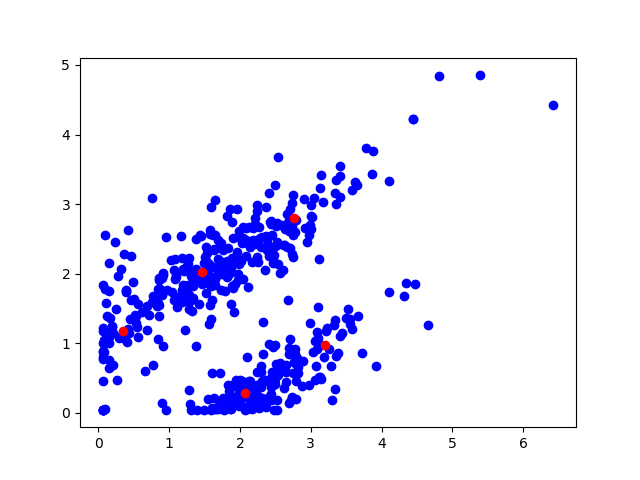
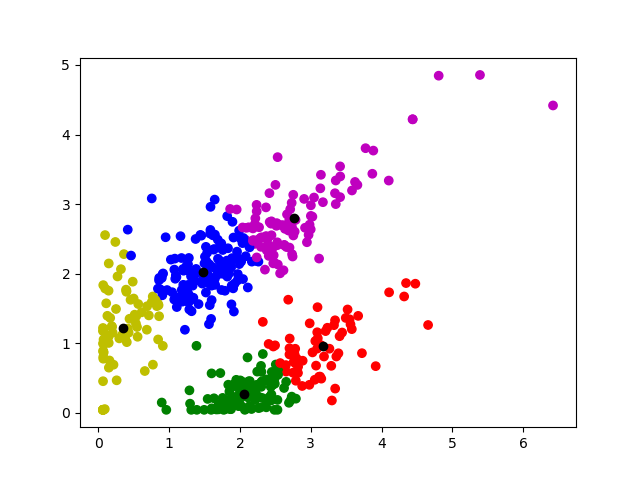
update

diff --git a/Week10/k-means.py b/Week10/k-means.py
@@ -13,12 +13,18 @@ data=df[coi].values
 data_new=vq.whiten(data)
 codebook,distortion=vq.kmeans(vq.whiten(data),5) #the top cluster in heat map is not very clear. I used approximately 2 or 5 clusters
 code,dist=vq.vq(data_new,codebook)
+print code
+colors=np.asarray(['g','r','y','b','m'])
+colorcode=colors[code]
+print colorcode
 #print codebook
 np.save('code.npy',code)
 
+
+
 plt.figure()
 
-plt.scatter(data_new[:,0],data_new[:,1],color='b')
-plt.scatter(codebook[:,0],codebook[:,1],color='r')
+plt.scatter(data_new[:,0],data_new[:,1],c=np.ndarray.tolist(colorcode))
+plt.scatter(codebook[:,0],codebook[:,1],color='k')
 plt.savefig('kcluster5.png')
 plt.close()
